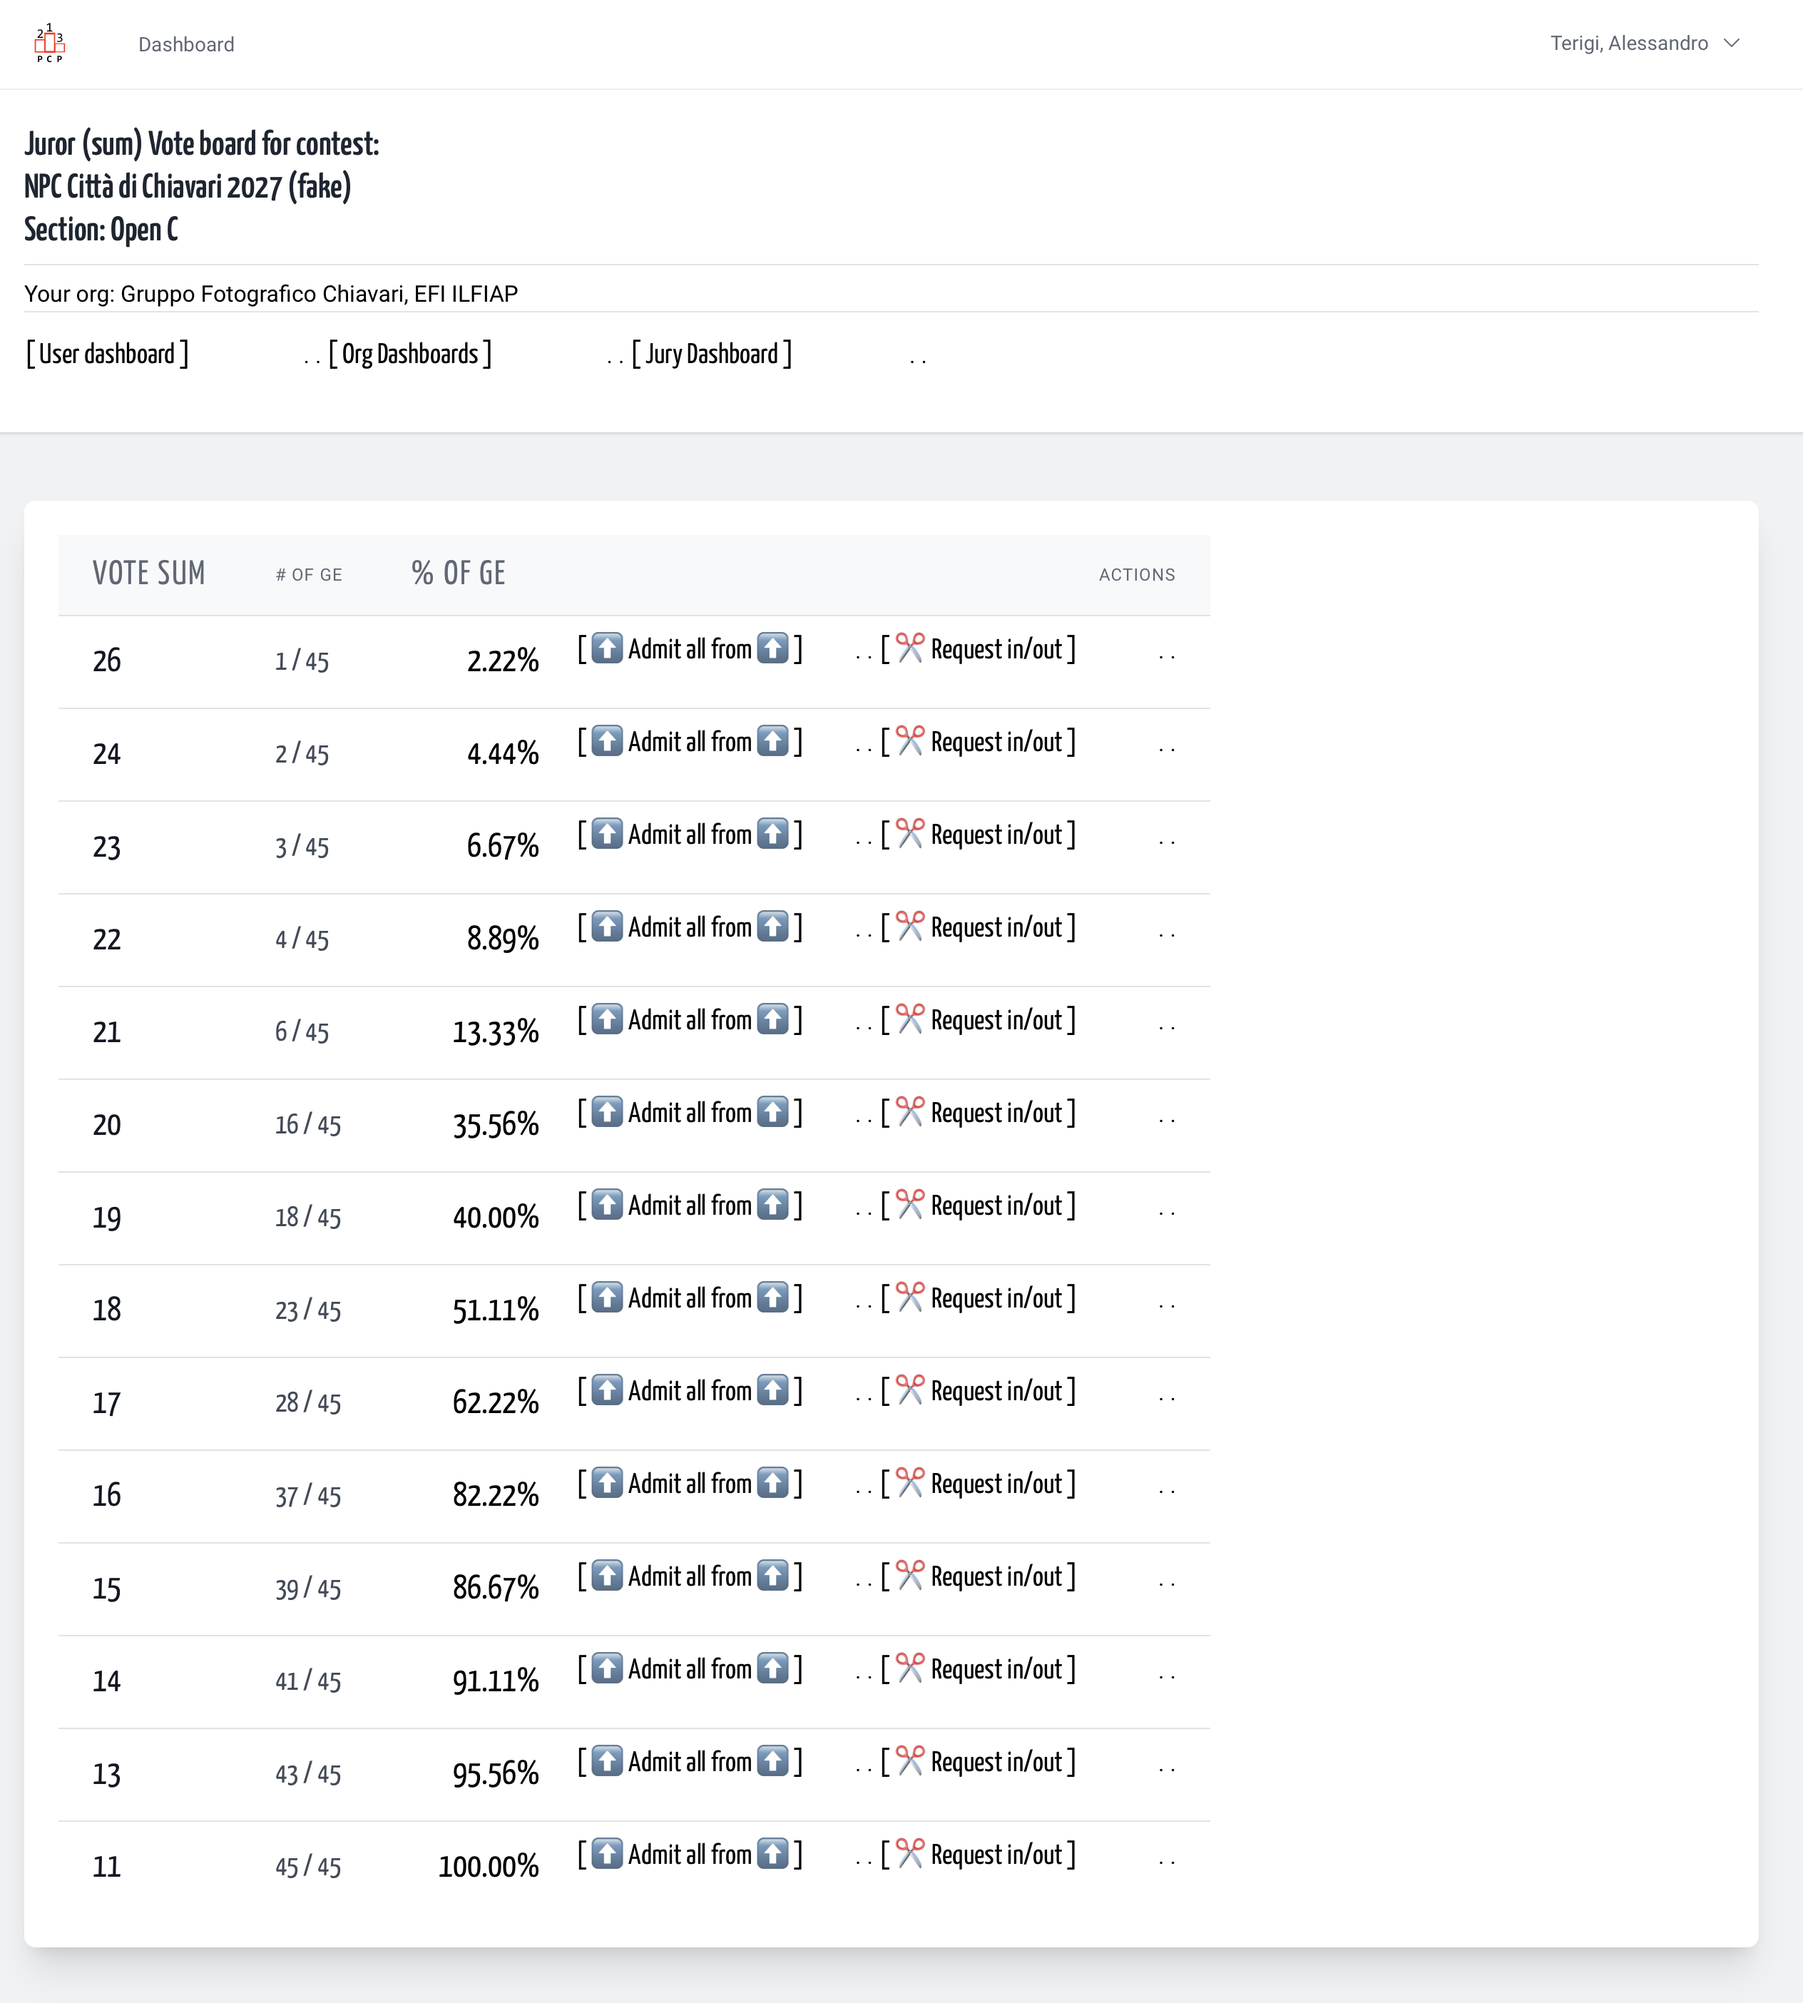
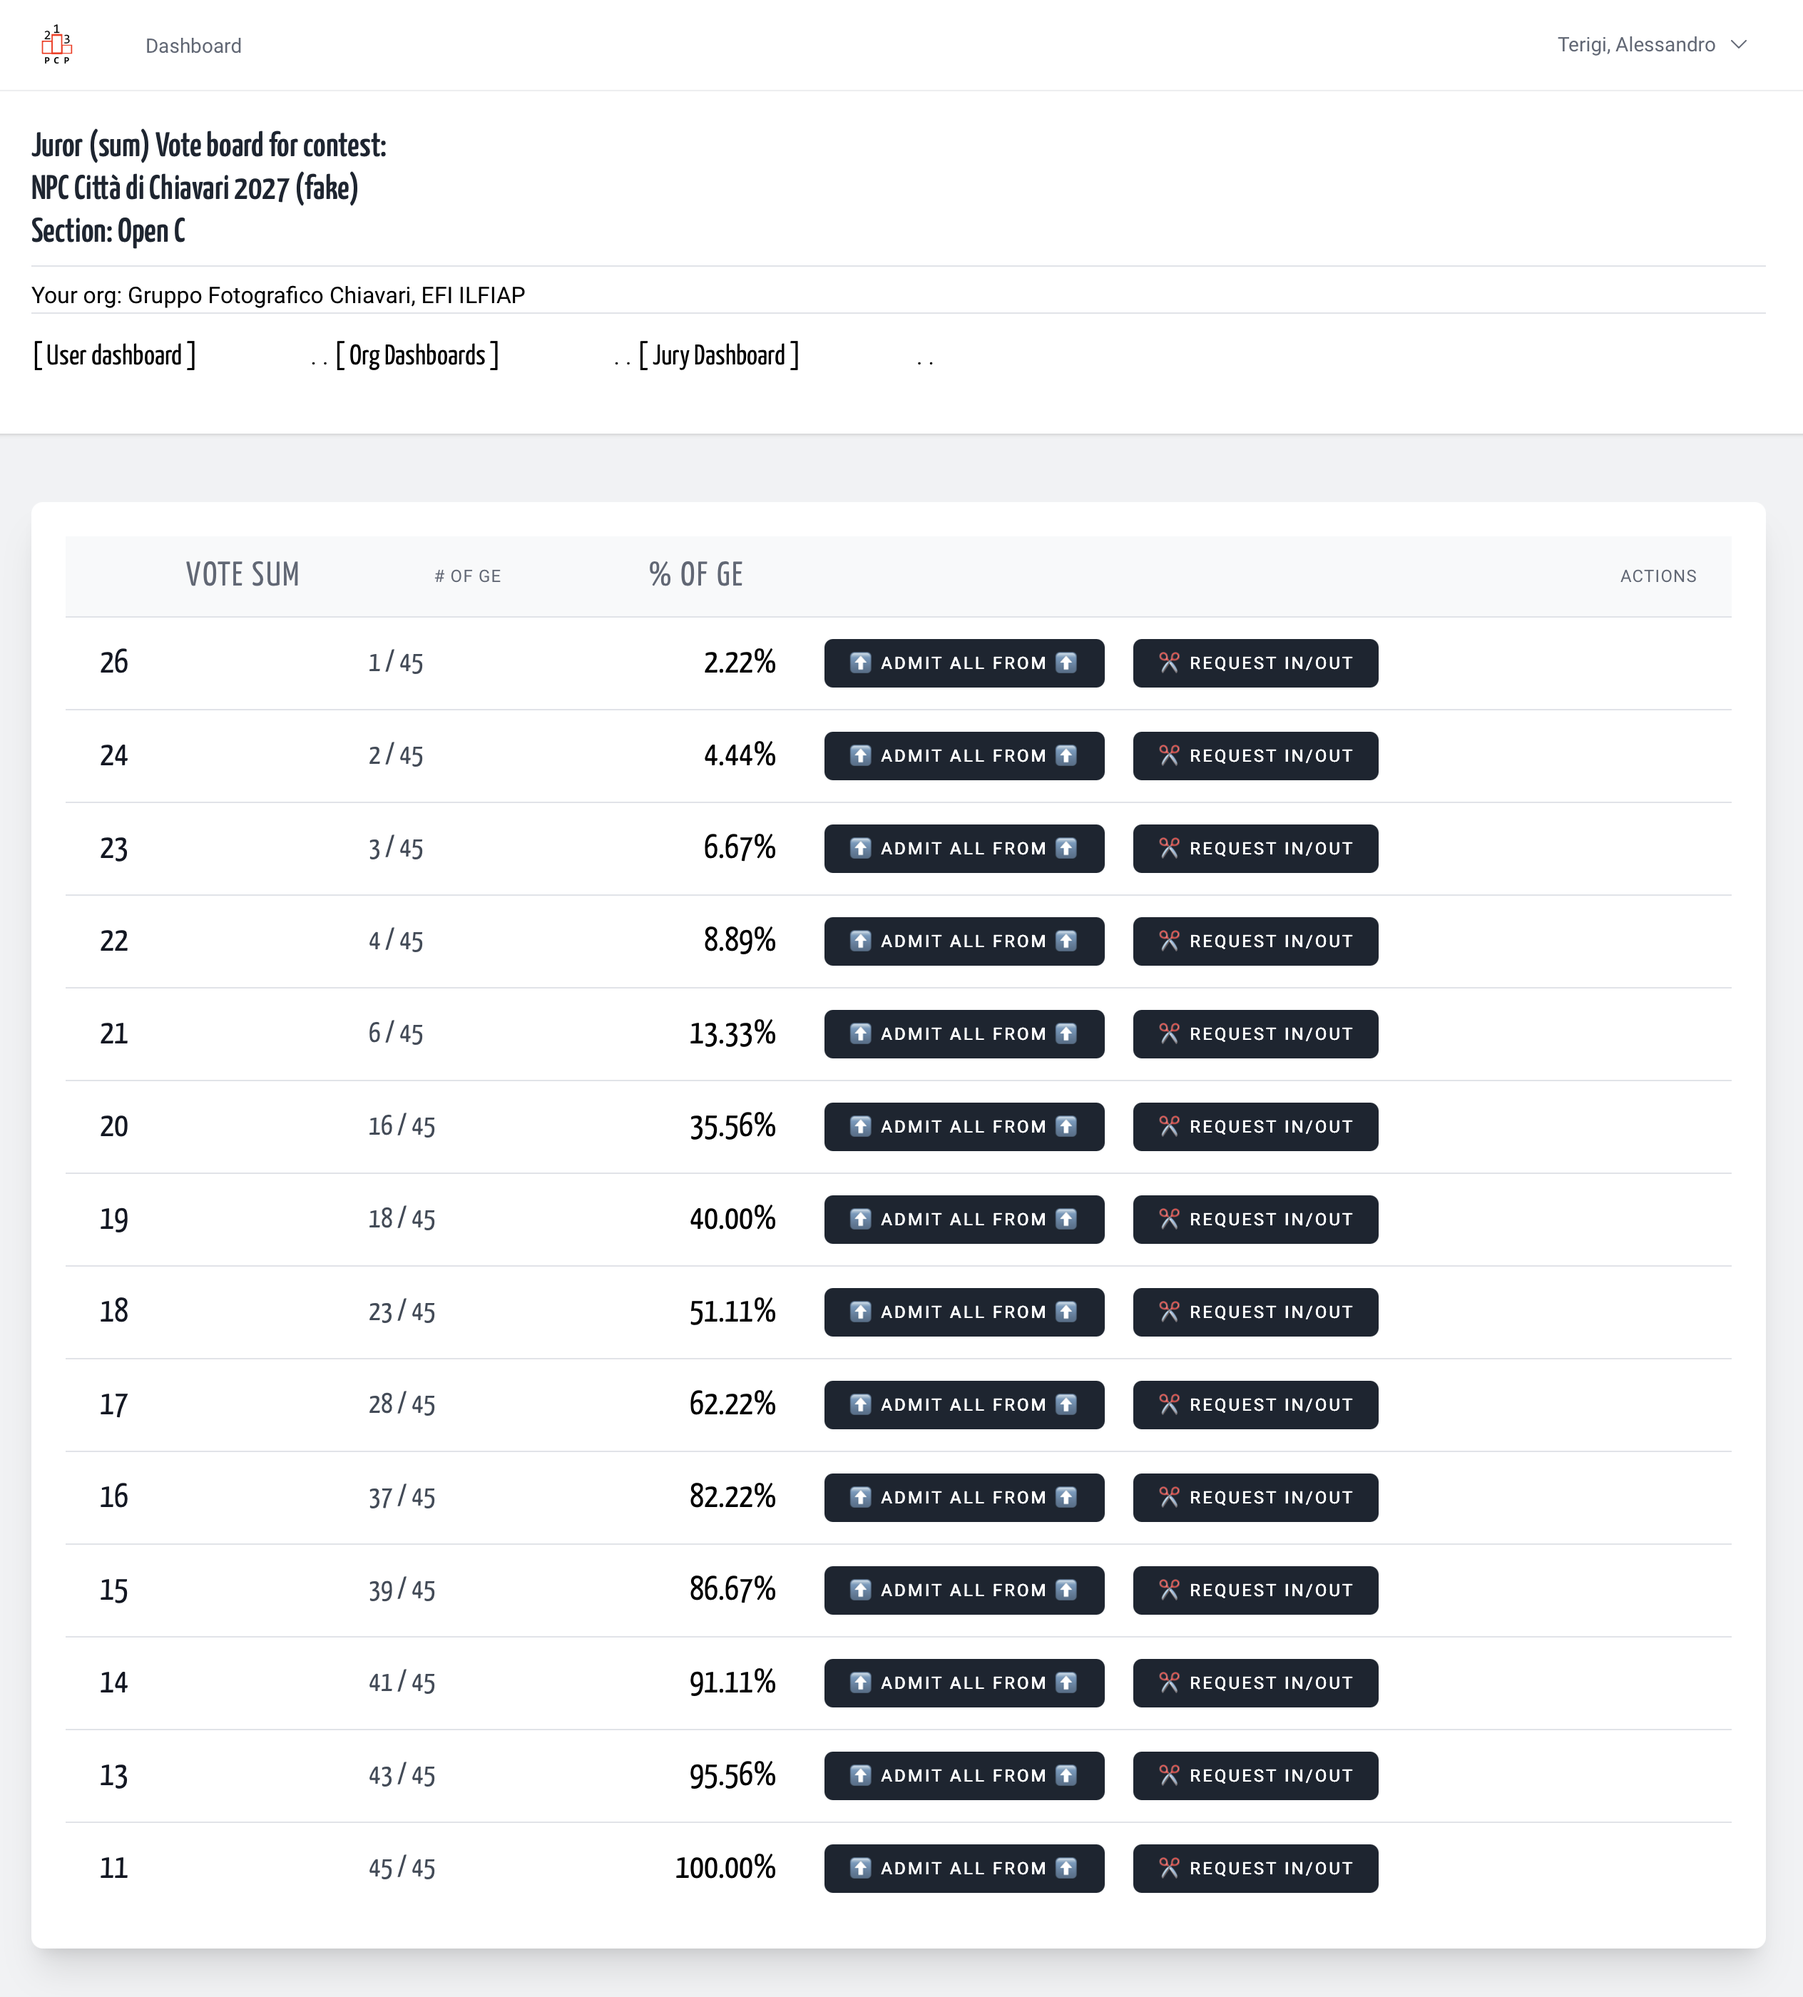
feat: Organization / Contest Manage / Jury Section Scoreboard - user man doc [skip ci]

diff --git a/resources/docs/1.0/organizations/section_scoreboard.md b/resources/docs/1.0/organizations/section_scoreboard.md
@@ -14,23 +14,11 @@ Once the jurors have finished voting for the section, the organizers can go to t
 
 &nbsp;
 
-
 This panel provides a summary of the total scores awarded by the jurors to the entries, listed in descending order, alongside the number of entries that received ‘that score or higher’, and the corresponding percentage of the total number of entries.
 
 &nbsp;
 
-
 This data can assist the organizers if they need to comply with quality criteria set by the federations, and two actions are therefore available.
-
-&nbsp;
-
-
-Admission from this score (inclusive) upwards. All entries whose total score exceeds or equals the corresponding score are marked as ‘admitted’.
-
-&nbsp;
-
-
-IN/OUT request. It may be necessary to split a group of entries with equal scores into two categories: those that ‘qualify’ and those that ‘do not qualify’ for the next level of admission. These entries are marked as ‘to be reviewed’ and resubmitted to the panel of judges for a new round of voting, which will effectively involve amending the votes already cast.
 
 *Translated with DeepL.com (free version)*
 
@@ -45,5 +33,16 @@ under the "Manage Contests / Before Jury"
 &nbsp;
 
 ![_](/docs/contest_votes/score_section_img03.png)
+
+&nbsp;
+
+IN/OUT request. It may be necessary to split a group of entries with equal scores into two categories: those that ‘qualify’ and those that ‘do not qualify’ for the next level of admission. These entries are marked as ‘to be reviewed’ and resubmitted to the panel of judges for a new round of voting, which will effectively involve amending the votes already cast.
+![_](/docs/contest_votes/score_section_img04.png)
+
+&nbsp;
+
+Admission from this score (inclusive) upwards. All entries whose total score exceeds or equals the corresponding score are marked as ‘admitted’.
+
+![_](/docs/contest_votes/score_section_img05.png)
 
 &nbsp;
